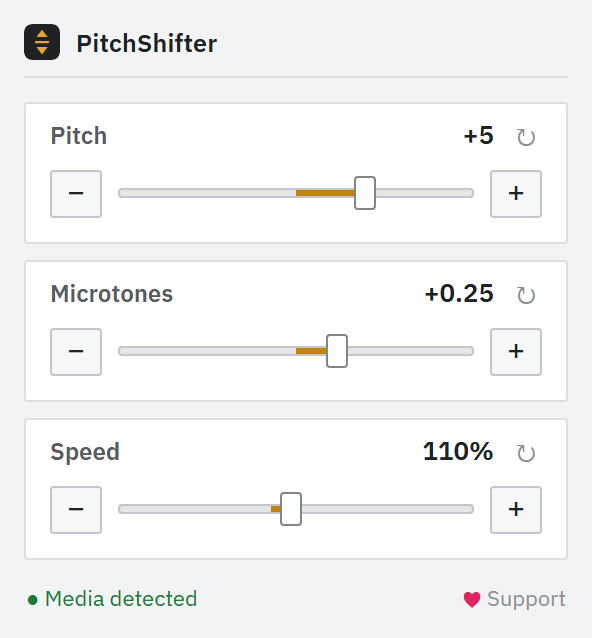
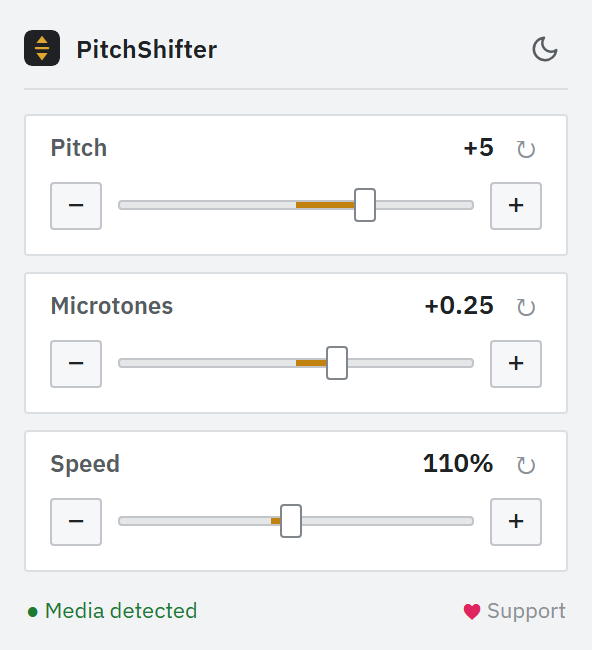
Add light/dark theme toggle to the popup

diff --git a/popup/popup.js b/popup/popup.js
@@ -23,21 +23,21 @@ const clampMicro = (v) => Math.max(-1, Math.min(1, Math.round(v * 100) / 100));
 const clampSpeed = (v) =>
     Math.max(0.25, Math.min(2, Math.round(v * 100) / 100));
 
-// Pull the slider colors from the active theme's CSS tokens so the fill
-// matches light/dark automatically.
+// Pull the slider colors from the active theme's CSS tokens (read fresh so a
+// theme switch updates the fills too).
 const cssVar = (n) =>
     getComputedStyle(document.documentElement).getPropertyValue(n).trim();
-const TRACK = cssVar("--track") || "#e4e6e8";
-const FILL = cssVar("--accent") || "#c2820f";
 
 // Fill the slider from its neutral point (center) to the thumb, so the bar
 // shows how far each control is pushed from its default.
 function fillSlider(el, value, min, max, center) {
+    const track = cssVar("--track") || "#e4e6e8";
+    const fill = cssVar("--accent") || "#c2820f";
     const pct = (v) => ((v - min) / (max - min)) * 100;
     let a = pct(center),
         b = pct(value);
     if (a > b) [a, b] = [b, a];
-    el.style.background = `linear-gradient(to right, ${TRACK} 0 ${a}%, ${FILL} ${a}% ${b}%, ${TRACK} ${b}% 100%)`;
+    el.style.background = `linear-gradient(to right, ${track} 0 ${a}%, ${fill} ${a}% ${b}%, ${track} ${b}% 100%)`;
 }
 
 function render() {
@@ -169,6 +169,41 @@ if (donateEl) {
     if (DONATE_URL.includes("YOUR_USERNAME")) donateEl.style.display = "none";
     else donateEl.href = DONATE_URL;
 }
+
+// --- Theme toggle -------------------------------------------------------------
+// theme: "system" (follow browser) | "light" | "dark". Persisted.
+const themeBtn = document.getElementById("themeToggle");
+let theme = "system";
+
+const systemDark = () =>
+    !!(window.matchMedia && window.matchMedia("(prefers-color-scheme: dark)").matches);
+const effectiveDark = () =>
+    theme === "dark" ? true : theme === "light" ? false : systemDark();
+
+function applyTheme() {
+    const root = document.documentElement;
+    if (theme === "dark" || theme === "light") root.setAttribute("data-theme", theme);
+    else root.removeAttribute("data-theme");
+    // CSS shows the sun (switch to light) when dark is active, else the moon.
+    if (themeBtn) themeBtn.classList.toggle("dark", effectiveDark());
+    render(); // re-fill sliders with the active theme's colors
+}
+
+if (themeBtn) {
+    themeBtn.addEventListener("click", () => {
+        theme = effectiveDark() ? "light" : "dark";
+        applyTheme();
+        api.storage.local.set({ theme }).catch(() => {});
+    });
+}
+
+api.storage.local
+    .get("theme")
+    .then((r) => {
+        theme = r && r.theme ? r.theme : "system";
+        applyTheme();
+    })
+    .catch(() => applyTheme());
 
 render();
 init();

diff --git a/popup/popup.css b/popup/popup.css
@@ -44,9 +44,29 @@
   --font: "IBM Plex Sans", "Segoe UI", Tahoma, system-ui, sans-serif;
 }
 
-/* Dark theme — follows the browser/OS color scheme. */
+/* Dark theme tokens (forced via the toggle). */
+:root[data-theme="dark"] {
+  --bg: #1e1f22;
+  --surface: #26282c;
+  --line: #34373c;
+  --line-2: #44484e;
+  --text: #e8eaed;
+  --text-2: #aeb3b9;
+  --text-3: #8a9097;
+  --accent: #e0a82e;
+  --track: #34373c;
+  --ok: #5cc46a;
+  --btn: #303338;
+  --btn-hover: #383c41;
+  --btn-active: #42464c;
+  --btn-border-hover: #5a5f66;
+  --thumb: #d8dbdf;
+  --thumb-border: #16181b;
+}
+
+/* Follow the browser/OS scheme when no explicit choice is set. */
 @media (prefers-color-scheme: dark) {
-  :root {
+  :root:not([data-theme="light"]):not([data-theme="dark"]) {
     --bg: #1e1f22;
     --surface: #26282c;
     --line: #34373c;
@@ -57,7 +77,6 @@
     --accent: #e0a82e;
     --track: #34373c;
     --ok: #5cc46a;
-
     --btn: #303338;
     --btn-hover: #383c41;
     --btn-active: #42464c;
@@ -109,6 +128,47 @@ body {
   font-weight: 600;
   letter-spacing: 0.01em;
   color: var(--text);
+}
+
+.theme-btn {
+  margin-left: auto;
+  flex: 0 0 auto;
+  display: inline-flex;
+  align-items: center;
+  justify-content: center;
+  width: 24px;
+  height: 24px;
+  padding: 0;
+  -webkit-appearance: none;
+  appearance: none;
+  border: 1px solid transparent;
+  border-radius: var(--r);
+  background: transparent;
+  color: var(--text-2);
+  cursor: pointer;
+}
+
+.theme-btn:hover {
+  color: var(--text);
+  background: var(--btn-hover);
+  border-color: var(--line-2);
+}
+
+.theme-btn svg {
+  display: block;
+}
+
+/* Show the moon by default (click to go dark); the sun when dark is active. */
+.theme-btn .icon-sun {
+  display: none;
+}
+
+.theme-btn.dark .icon-moon {
+  display: none;
+}
+
+.theme-btn.dark .icon-sun {
+  display: block;
 }
 
 .group {

diff --git a/popup/popup.html b/popup/popup.html
@@ -10,6 +10,42 @@
     <div class="titlebar">
       <img class="logo" src="../icons/icon.svg" alt="" width="18" height="18" />
       <span class="title-text">PitchShifter</span>
+      <button
+        id="themeToggle"
+        class="theme-btn"
+        type="button"
+        title="Toggle theme"
+        aria-label="Toggle theme"
+      >
+        <svg
+          class="icon-moon"
+          viewBox="0 0 24 24"
+          width="15"
+          height="15"
+          fill="none"
+          stroke="currentColor"
+          stroke-width="2"
+          stroke-linecap="round"
+          stroke-linejoin="round"
+        >
+          <path d="M21 12.8A9 9 0 1 1 11.2 3 7 7 0 0 0 21 12.8z" />
+        </svg>
+        <svg
+          class="icon-sun"
+          viewBox="0 0 24 24"
+          width="15"
+          height="15"
+          fill="none"
+          stroke="currentColor"
+          stroke-width="2"
+          stroke-linecap="round"
+        >
+          <circle cx="12" cy="12" r="4" />
+          <path
+            d="M12 2v2M12 20v2M4.9 4.9l1.4 1.4M17.7 17.7l1.4 1.4M2 12h2M20 12h2M4.9 19.1l1.4-1.4M17.7 6.3l1.4-1.4"
+          />
+        </svg>
+      </button>
     </div>
 
     <div class="group">
